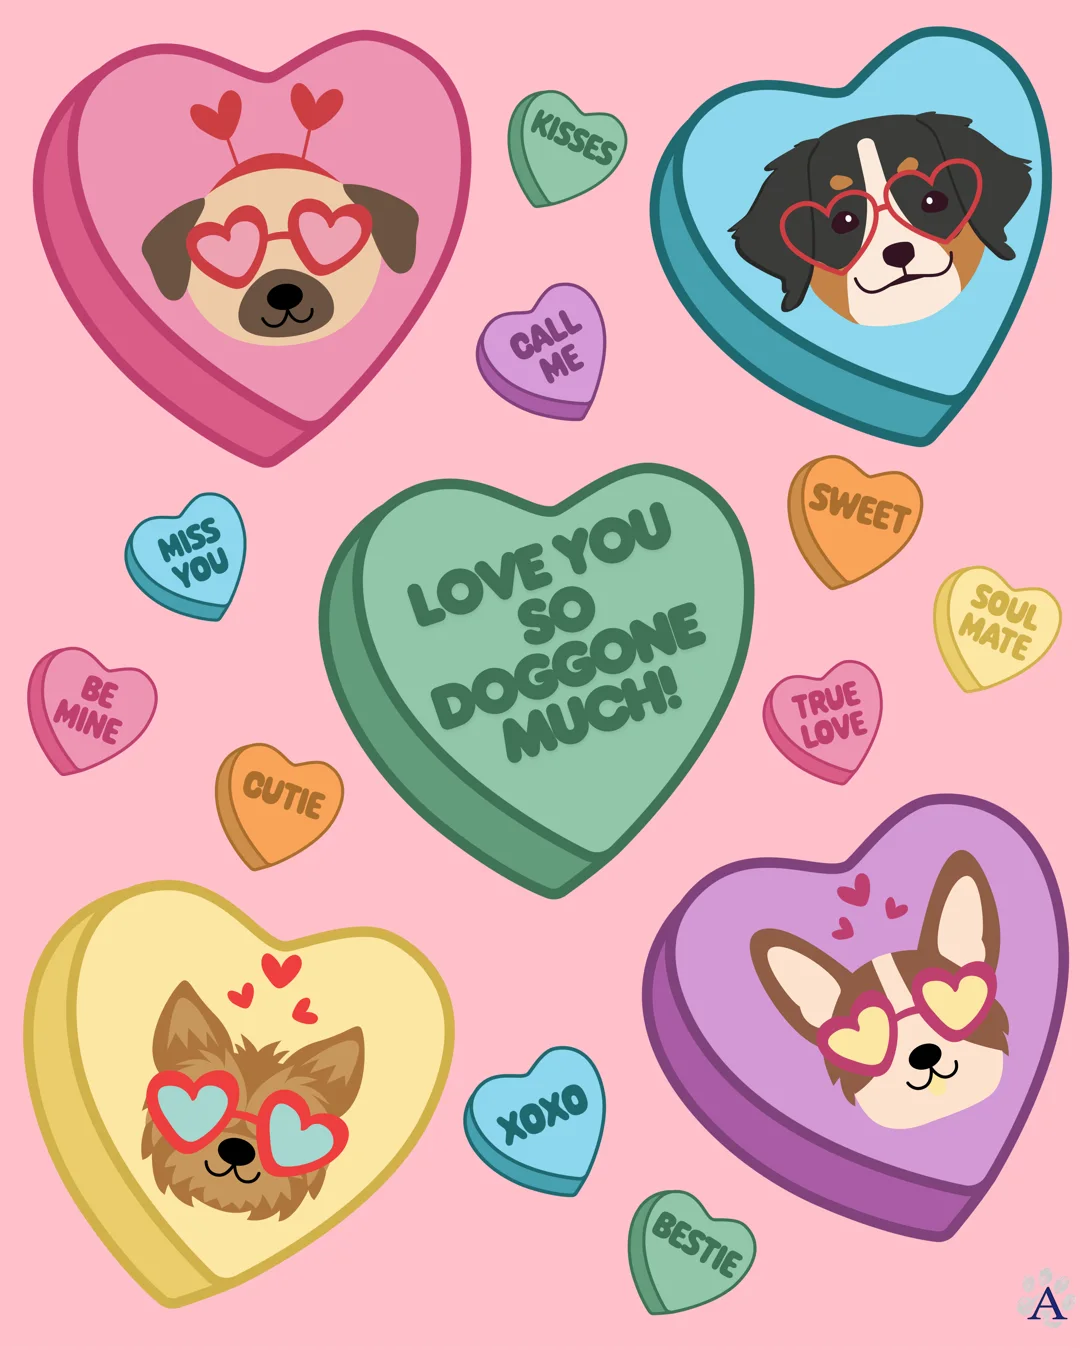
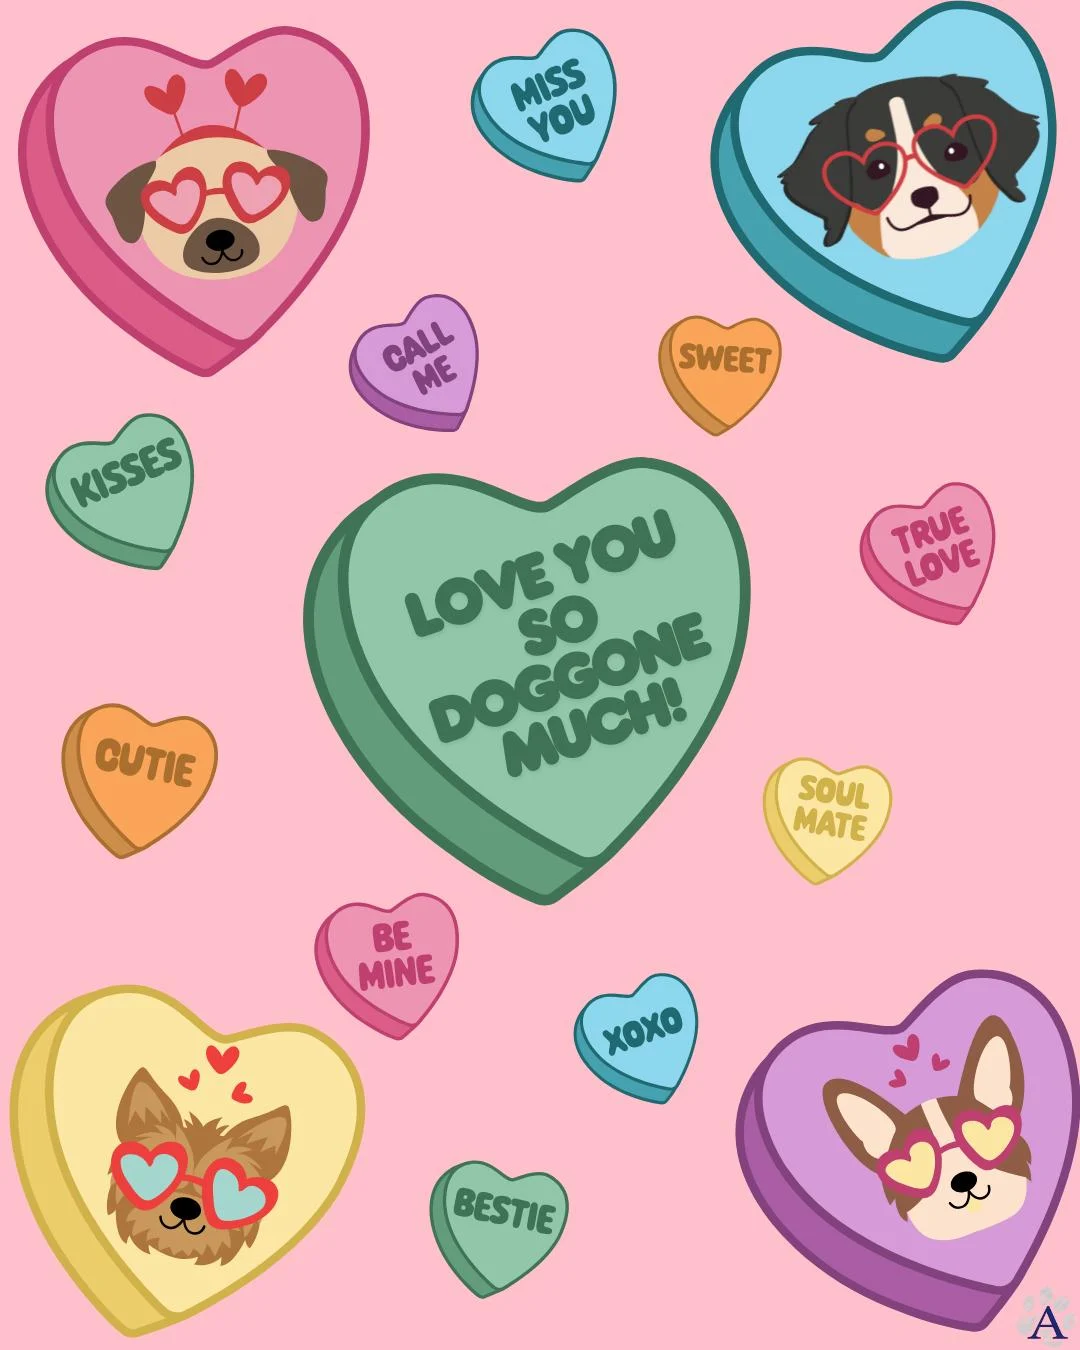
AHCC: use the published Valentine's post image
Claude-Session: https://claude.ai/code/session_01Uf5P74z6cMMtBACizZT3NQ

diff --git a/js/projects.js b/js/projects.js
@@ -45,7 +45,7 @@ window.PROJECTS = [
       { type:"post", brand:"animalhealthcare", avatar:"A", caption:"Blaze is already stealing hearts 🐾❤\n\nThis sweet face is new to the Animal HealthCare Center family, and we are so excited to watch him grow, play, and keep everyone smiling along the way.\n\nWelcome, Blaze! 💙🐾\n\nGot a new furry family member? We’d love to meet them too 🐶🐱 Send us a photo to be featured next!", image:"images/work/ahcc-blaze.webp" },
       { type:"post", brand:"animalhealthcare", avatar:"A", caption:"A tiny chip can make a huge difference. 🐾\n\nFor Check the Chip Day, take a minute to confirm your pet is microchipped and that your contact information is current. It’s one of the simplest ways to help them find their way back home if they ever get lost.\n\nCall us today to schedule a microchip appointment or have your pet’s chip checked! 💙", image:"images/work/ahcc-chip.webp" },
       { type:"post", brand:"animalhealthcare", avatar:"A", caption:"Today’s forecast: 100% chance of tail wags, belly rubs, and someone stealing your spot on the couch. 🐶💙\n\nHappy National Dog Day to the loyal sidekicks who make every day better! Give your pup an extra treat today and share their cutest photo with us below. 🐾", image:"images/work/ahcc-dogday.webp?v=2" },
-      { type:"post", brand:"animalhealthcare", avatar:"A", caption:"Roses are red,\nViolets are blue,\nKeeping pets healthy\nIs what we love to do ❤🐶\n\nHappy Valentine’s Day from the AHCC family!", image:"images/work/ahcc-bemine.webp?v=2" }
+      { type:"post", brand:"animalhealthcare", avatar:"A", caption:"Roses are red,\nViolets are blue,\nKeeping pets healthy\nIs what we love to do ❤🐶\n\nHappy Valentine’s Day from the AHCC family!", image:"images/work/ahcc-bemine.webp?v=3" }
     ] },
   { id:"realestate", cover:"images/work/realestate-cover.webp", title:"Real Estate & Home Building", subtitle:"Realtors and luxury home builders",
     categories:["Social Media & Content","Video & Multimedia"], agency:true,

diff --git a/portfolio.html b/portfolio.html
@@ -130,7 +130,7 @@
   });
 }
 </script>
-<script src="js/projects.js?v=13"></script>
+<script src="js/projects.js?v=14"></script>
 <script>
 {
   const P=window.PROJECTS||[];
